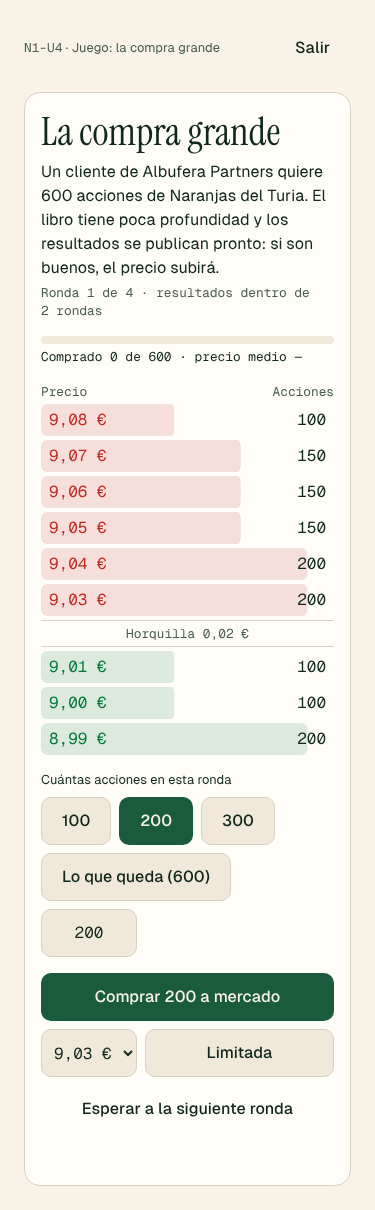
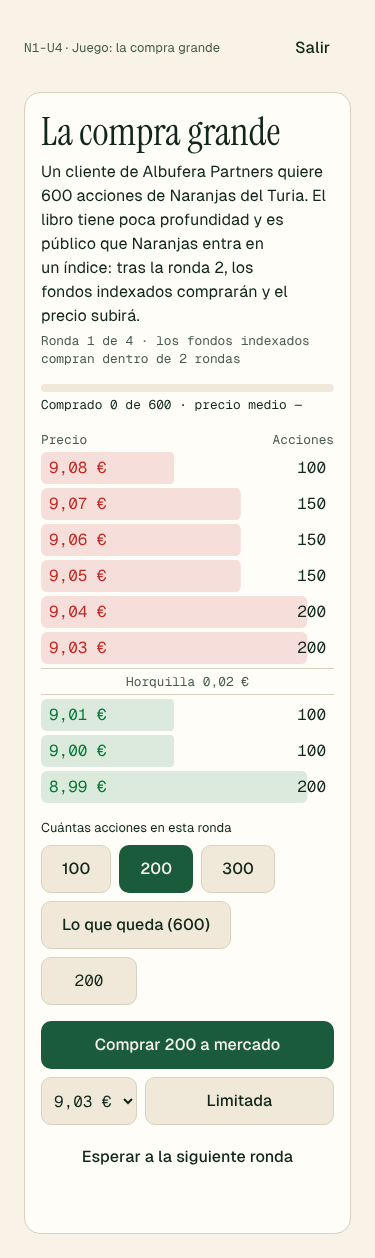
content: revisión de la lección-juego «La compra grande» (n1-u4-l7 reviewed)
- Motor: tras la compra de los fondos indexados el libro sube entero y no vuelve a precios previos.
- Parámetros: opción `fixed` para escribir siempre los decimales de los precios.
- Lección: e1 y e2 a partir del coste pagado, punto medio y sobrecoste definidos, evento público
  (entrada en un índice) en lugar de resultados, fuentes concretas, VWAP/TWAP.
- Dos rondas del revisor anotadas en CONTENIDO-QA.

Claude-Session: https://claude.ai/code/session_01MmSrs1YdgLJhPMsRgWQM9q

diff --git a/src/engine/games/block-trade.ts b/src/engine/games/block-trade.ts
@@ -2,13 +2,13 @@ import { mulberry32 } from '../prng';
 
 /*
  * «La compra grande» (lección-juego de N1-U4): un cliente te encarga comprar un paquete de acciones en un libro
- * poco profundo antes de que salgan unos resultados que lo encarecerán. Enseña horquilla, liquidez, impacto de
+ * poco profundo antes de que los fondos indexados compren por la entrada de Naranjas en un índice, lo que lo encarecerá. Enseña horquilla, liquidez, impacto de
  * mercado, orden de mercado frente a limitada y trocear una orden. Lógica pura y determinista por semilla.
  */
 
 export const TICK = 0.01;
 export const ROUNDS = 4;
-/** Ronda (0-based) tras la cual se publican los resultados y el libro sube. */
+/** Ronda (0-based) tras la cual compran los fondos indexados y el libro sube. */
 export const NEWS_AFTER_ROUND = 1;
 /** Parte de la liquidez consumida que vuelve al libro en la ronda siguiente. */
 export const REFILL = 0.6;
@@ -28,7 +28,7 @@ export interface BlockTradeSetup {
   target: number;
   /** Punto medio inicial (referencia para medir el impacto). */
   mid: number;
-  /** Subida del libro cuando salen los resultados (en tanto por uno). */
+  /** Subida del libro cuando compran los fondos indexados (en tanto por uno). */
   newsJump: number;
   book: Book;
 }
@@ -121,19 +121,28 @@ function sweep(
 export const bestAsk = (b: Book): number => b.asks[0]?.price ?? Infinity;
 export const remaining = (s: BlockTradeState): number => s.setup.target - s.bought;
 
-/**
- * Entre rondas: vuelve parte de la liquidez consumida (al precio original de cada nivel) y, tras la ronda de la
- * noticia, todo el libro sube `newsJump`.
- */
-function nextBook(before: Book, after: Level[], round: number, setup: BlockTradeSetup): Book {
-  const refilled = setup.book.asks.map((orig) => {
-    const now = after.find((l) => Math.abs(l.price - orig.price) < 1e-9)?.qty ?? 0;
-    return { price: orig.price, qty: Math.round(now + (orig.qty - now) * REFILL) };
-  });
-  const keep = refilled.filter((l) => l.qty > 0);
-  if (round !== NEWS_AFTER_ROUND) return { bids: before.bids, asks: keep };
+/** Libro de referencia de una ronda: el inicial y, después de la entrada de los fondos indexados, el subido. */
+export function referenceBook(setup: BlockTradeSetup, round: number): Book {
+  if (round <= NEWS_AFTER_ROUND) return setup.book;
   const up = (l: Level) => ({ ...l, price: r2(l.price * (1 + setup.newsJump)) });
   return { asks: setup.book.asks.map(up), bids: setup.book.bids.map(up) };
+}
+
+/**
+ * Entre rondas vuelve parte de la liquidez consumida, a los precios del libro de referencia de la ronda siguiente.
+ * Al pasar la ronda del evento, el libro entero sube `newsJump` (fresco y a precios nuevos): nunca vuelve a los
+ * precios de antes ni queda cruzado.
+ */
+function nextBook(after: Level[], round: number, setup: BlockTradeSetup): Book {
+  const ref = referenceBook(setup, round + 1);
+  if (round === NEWS_AFTER_ROUND) return structuredClone(ref);
+  const asks = ref.asks
+    .map((orig) => {
+      const now = after.find((l) => Math.abs(l.price - orig.price) < 1e-9)?.qty ?? 0;
+      return { price: orig.price, qty: Math.round(now + (orig.qty - now) * REFILL) };
+    })
+    .filter((l) => l.qty > 0);
+  return { bids: ref.bids, asks };
 }
 
 export function validQty(s: BlockTradeState, qty: number): boolean {
@@ -184,7 +193,7 @@ export function act(s: BlockTradeState, action: Action): BlockTradeState {
   if (next.bought >= s.setup.target)
     return { ...next, book: { ...s.book, asks }, done: true, resting: null };
   const round = s.round + 1;
-  const book = nextBook(s.book, asks, s.round, s.setup);
+  const book = nextBook(asks, s.round, s.setup);
   next = { ...next, round, book };
   if (round >= ROUNDS) {
     // se acabó el tiempo: el cliente exige el paquete completo, a mercado

diff --git a/tests/block-trade-game.test.tsx b/tests/block-trade-game.test.tsx
@@ -4,14 +4,14 @@ import { describe, expect, it, vi } from 'vitest';
 import { BlockTradeGame } from '../src/features/games/BlockTradeGame';
 
 describe('La compra grande (interfaz)', () => {
-  it('trocear en dos rondas antes de la noticia: completa el paquete con nota máxima y devuelve las cifras', async () => {
+  it('trocear en dos rondas antes de que entren los fondos: completa el paquete con nota máxima y devuelve las cifras', async () => {
     const onDone = vi.fn();
     const user = userEvent.setup();
     render(<BlockTradeGame seed={7} onDone={onDone} />);
     expect(screen.getByRole('heading', { name: 'La compra grande' })).toBeInTheDocument();
     expect(screen.getByRole('table', { name: /Libro de órdenes/ })).toBeInTheDocument();
     expect(screen.getByTestId('bt-round')).toHaveTextContent(
-      'Ronda 1 de 4 · resultados dentro de 2 rondas',
+      'Ronda 1 de 4 · los fondos indexados compran dentro de 2 rondas',
     );
 
     await user.click(screen.getByRole('button', { name: '300' }));
@@ -19,7 +19,7 @@ describe('La compra grande (interfaz)', () => {
     expect(screen.getByTestId('bt-status')).toHaveTextContent('Comprado 300 de 600');
     expect(screen.getByTestId('bt-message')).toHaveTextContent('Compradas 300');
     expect(screen.getByTestId('bt-round')).toHaveTextContent(
-      'Ronda 2 de 4 · resultados dentro de 1 ronda',
+      'Ronda 2 de 4 · los fondos indexados compran dentro de 1 ronda',
     );
 
     await user.click(screen.getByRole('button', { name: 'Lo que queda (300)' }));
@@ -33,17 +33,19 @@ describe('La compra grande (interfaz)', () => {
     expect(values.impact).toBeGreaterThan(0);
   });
 
-  it('esperar hasta la noticia: el libro sube y la nota baja', async () => {
+  it('esperar a que entren los fondos: el libro sube y la nota baja', async () => {
     const user = userEvent.setup();
     render(<BlockTradeGame seed={7} onDone={() => {}} />);
     const wait = screen.getByRole('button', { name: 'Esperar a la siguiente ronda' });
     await user.click(wait);
     await user.click(wait);
-    expect(screen.getByTestId('bt-message')).toHaveTextContent('Resultados mejores de lo esperado');
-    expect(screen.getByTestId('bt-round')).toHaveTextContent('resultados publicados');
+    expect(screen.getByTestId('bt-message')).toHaveTextContent('Entran los fondos indexados');
+    expect(screen.getByTestId('bt-round')).toHaveTextContent(
+      'los fondos indexados ya han comprado',
+    );
     await user.click(screen.getByRole('button', { name: 'Lo que queda (600)' }));
     await user.click(screen.getByRole('button', { name: 'Comprar 600 a mercado' }));
-    expect(screen.getByTestId('bt-verdict')).toHaveTextContent('Esperar a la noticia');
+    expect(screen.getByTestId('bt-verdict')).toHaveTextContent('Esperar a que entren los fondos');
   });
 
   it('limitada sin vendedores: queda pendiente y se avisa', async () => {

diff --git a/src/engine/games/block-trade.test.ts b/src/engine/games/block-trade.test.ts
@@ -1,4 +1,6 @@
 import { describe, expect, it } from 'vitest';
+
+const r2 = (x: number) => Math.round(x * 100) / 100;
 import {
   act,
   benchmarks,
@@ -104,5 +106,42 @@ describe('la compra grande', () => {
   it('todo de golpe puntúa 0,5', () => {
     const r = blockTradeResult(act(startBlockTrade(setup), { type: 'market', qty: 600 }));
     expect(r.score).toBe(0.5);
+  });
+});
+
+describe('el libro después del evento (revisión)', () => {
+  it('en las rondas siguientes nunca vuelve a los precios de antes ni se cruza', () => {
+    for (const seed of [1, 7, 42, 99]) {
+      const st = setupBlockTrade(seed);
+      let s = startBlockTrade(st);
+      for (let i = 0; i < ROUNDS - 1; i++) {
+        if (s.round > NEWS_AFTER_ROUND)
+          expect(bestAsk(s.book)).toBeGreaterThanOrEqual(
+            r2(st.book.asks[0]!.price * (1 + st.newsJump)) - 1e-9,
+          );
+        expect(bestAsk(s.book)).toBeGreaterThan(s.book.bids[0]!.price);
+        s = act(s, { type: i === 0 ? 'market' : 'wait', qty: 100 } as never);
+      }
+    }
+  });
+  it('quedarse sin tiempo sale más caro que todo de golpe con la subida del evento, y puntúa por debajo de 0,5', () => {
+    for (const seed of [1, 7, 42]) {
+      const st = setupBlockTrade(seed);
+      let s = startBlockTrade(st);
+      for (let i = 0; i < ROUNDS; i++) s = act(s, { type: 'wait' });
+      const { allNow } = benchmarks(st);
+      expect(s.cost).toBeGreaterThan(allNow * (1 + st.newsJump) * 0.995);
+      expect(blockTradeResult(s).score).toBeLessThan(0.5);
+    }
+  });
+  it('una limitada barata pendiente no se ejecuta después del evento', () => {
+    const st = setupBlockTrade(7);
+    let s = act(startBlockTrade(st), {
+      type: 'limit',
+      qty: 200,
+      price: st.book.asks[0]!.price - 0.01,
+    });
+    for (let i = 1; i < ROUNDS - 1; i++) s = act(s, { type: 'wait' });
+    expect(s.bought).toBe(0);
   });
 });

diff --git a/e2e/leccion-juego.spec.ts b/e2e/leccion-juego.spec.ts
@@ -24,19 +24,19 @@ test('la compra grande: juego → explicación con tus cifras → ejercicios con
 
   // la primera tarjeta cita tu precio medio real
   await expect(page.getByText(`Pagaste de media ${avg}`)).toBeVisible();
-  await page.screenshot({ path: 'docs/capturas/leccion-juego/explicacion-375.png', fullPage: true });
+  await page.screenshot({
+    path: 'docs/capturas/leccion-juego/explicacion-375.png',
+    fullPage: true,
+  });
   for (let i = 0; i < 3; i++)
     await page.getByRole('button', { name: /Siguiente|Empezar los ejercicios/ }).click();
 
-  // el primer ejercicio usa tus 600 acciones y tu precio medio
+  // el primer ejercicio usa lo que pagaste en tu partida: el precio medio es la respuesta
   const n = avg.replace(/\s?€/, '').trim();
   await expect(page.getByRole('heading', { level: 3 })).toContainText(
-    `Compraste 600 acciones a un precio medio de ${n} €`,
+    /Pagaste [\d.,]+ € por 600 acciones/,
   );
-  const value = Number(n.replace(/\./g, '').replace(',', '.'));
-  await page
-    .getByRole('textbox', { name: /Tu respuesta/ })
-    .fill((600 * value).toFixed(2).replace('.', ','));
+  await page.getByRole('textbox', { name: /Tu respuesta/ }).fill(n.replace(/\./g, ''));
   await page.getByRole('button', { name: 'Comprobar' }).click();
   await expect(page.getByRole('status')).toContainText('Correcto');
 });

diff --git a/src/engine/params.test.ts b/src/engine/params.test.ts
@@ -236,6 +236,21 @@ describe('cifras impuestas (lección-juego)', () => {
     expect(e.prompt).toContain('2.000 €');
   });
   it('sin cifras válidas se comporta como la plantilla', () => {
-    expect(instantiate(numeric, undefined, { otra: 1, capital: Number.NaN })).toEqual(instantiate(numeric));
+    expect(instantiate(numeric, undefined, { otra: 1, capital: Number.NaN })).toEqual(
+      instantiate(numeric),
+    );
+  });
+});
+
+describe('decimales fijos', () => {
+  it('un parámetro con fixed escribe todos sus decimales', () => {
+    const t = parse({
+      ...numeric,
+      params: {
+        ...(numeric as { params: object }).params,
+        tipo: { value: 5, min: 2, max: 8, step: 0.5, decimals: 2, fixed: true },
+      },
+    });
+    expect((instantiate(t).exercise as { prompt: string }).prompt).toContain('al 5,00 %');
   });
 });

diff --git a/src/engine/params.ts b/src/engine/params.ts
@@ -177,7 +177,7 @@ export function instantiate(
   const variant = seed !== undefined || Object.keys(forced).length > 0;
   const scope: Record<string, number> = { ...values };
   const formats: Record<string, Format> = Object.fromEntries(
-    Object.entries(params).map(([k, p]) => [k, [0, p.decimals] as const]),
+    Object.entries(params).map(([k, p]) => [k, [p.fixed ? p.decimals : 0, p.decimals] as const]),
   );
   for (const [k, d] of Object.entries(e.derived ?? {})) {
     scope[k] = evaluateNumber(fillFormula(d.formula, scope));

diff --git a/src/content/schemas.ts b/src/content/schemas.ts
@@ -54,6 +54,8 @@ export const paramSpecSchema = z.object({
   max: z.number(),
   step: z.number().positive(),
   decimals: z.number().int().min(0).max(6).default(0),
+  /** Escribir siempre todos los decimales (precios: «9,50 €» y no «9,5 €»). */
+  fixed: z.boolean().optional(),
 });
 export type ParamSpec = z.infer<typeof paramSpecSchema>;
 /** Cifra calculada a partir de los parámetros, para usarla en el texto ({nombre}). */

diff --git a/CONTENIDO-QA.md b/CONTENIDO-QA.md
@@ -123,3 +123,9 @@ Revisor independiente: direcciones de los 12 titulares y tipos de orden correcto
 `n0-u1-l2-e4` (interés compuesto, `numeric_input`; lección `n0-u1-l2` v3) y `n0-u2-l3-e3` (intereses del mes en hoja de cálculo; lección `n0-u2-l3` v2) pasan a tener cifras variables en el repaso.
 - **Ronda 1 (revisor-financiero):** sin errores de cálculo en todo el rango; la tolerancia no impide acertar. 1 mayor aplicado: el derivado de 3 decimales detrás de un «=» podía contradecir el redondeo → se usa el factor `1 + tipo/100` (2 decimales) y la respuesta redondeada al céntimo. Menores aplicados: `tipo.max` 9 → 6 (realismo de un depósito); el segundo caso oculto de la hoja usa TIN 0,0425 (fuera de la rejilla) para que una fórmula sin referencia a B2 no pase; etiqueta «TIN (tanto por uno)» y equivalente en % en la explicación. Aceptado sin cambio: «250,00 €» en la explicación frente a «250 €» en la intro.
 - **Ronda 2:** lanzada y **cortada por el límite de uso** antes de terminar. 🛑 Pendiente de repetir y de la revisión de Javier. Estado de las lecciones: `reviewed` (sin cambio).
+
+## n1-u4-l7 — Lección-juego «La compra grande» (17/10/2026)
+
+Primera lección-juego: se juega primero y las cifras de la partida rellenan tarjetas y ejercicios; en el repaso, los ejercicios usan sus `params`.
+- **Ronda 1 (revisor-financiero):** 2 críticos aplicados: e1 pasa a precio medio = coste / acciones; e2 pasa a coste − 600 × punto medio, con rangos que siempre dan un sobrecoste positivo. Mayores aplicados: el motor ya no devuelve el libro a precios previos tras el evento; el desencadenante pasa de «resultados buenos» (incierto) a un evento público y cierto (Naranjas entra en un índice y los fondos indexados compran tras la ronda 2); la tarjeta 1 define punto medio y sobrecoste. Menores aplicados: e4 como hipótesis, e3 bloom «entender», fuentes concretas (BME Reglamentación; Bodie, Kane y Marcus, cap. 3), VWAP/TWAP explicados, matiz de que la liquidez vuelve solo en parte, decimales fijos en precios (`fixed`).
+- **Ronda 2:** aprobada con retoques, todos aplicados: distractor 3 de e4 cambiado (el anterior describía algo cierto), «noticia» → «entren los fondos indexados» en e6, «no mueven» → «mueven menos» en realWorld, comentarios del motor actualizados. Estado: `reviewed`. 🛑 Pendiente de la revisión de Javier.
